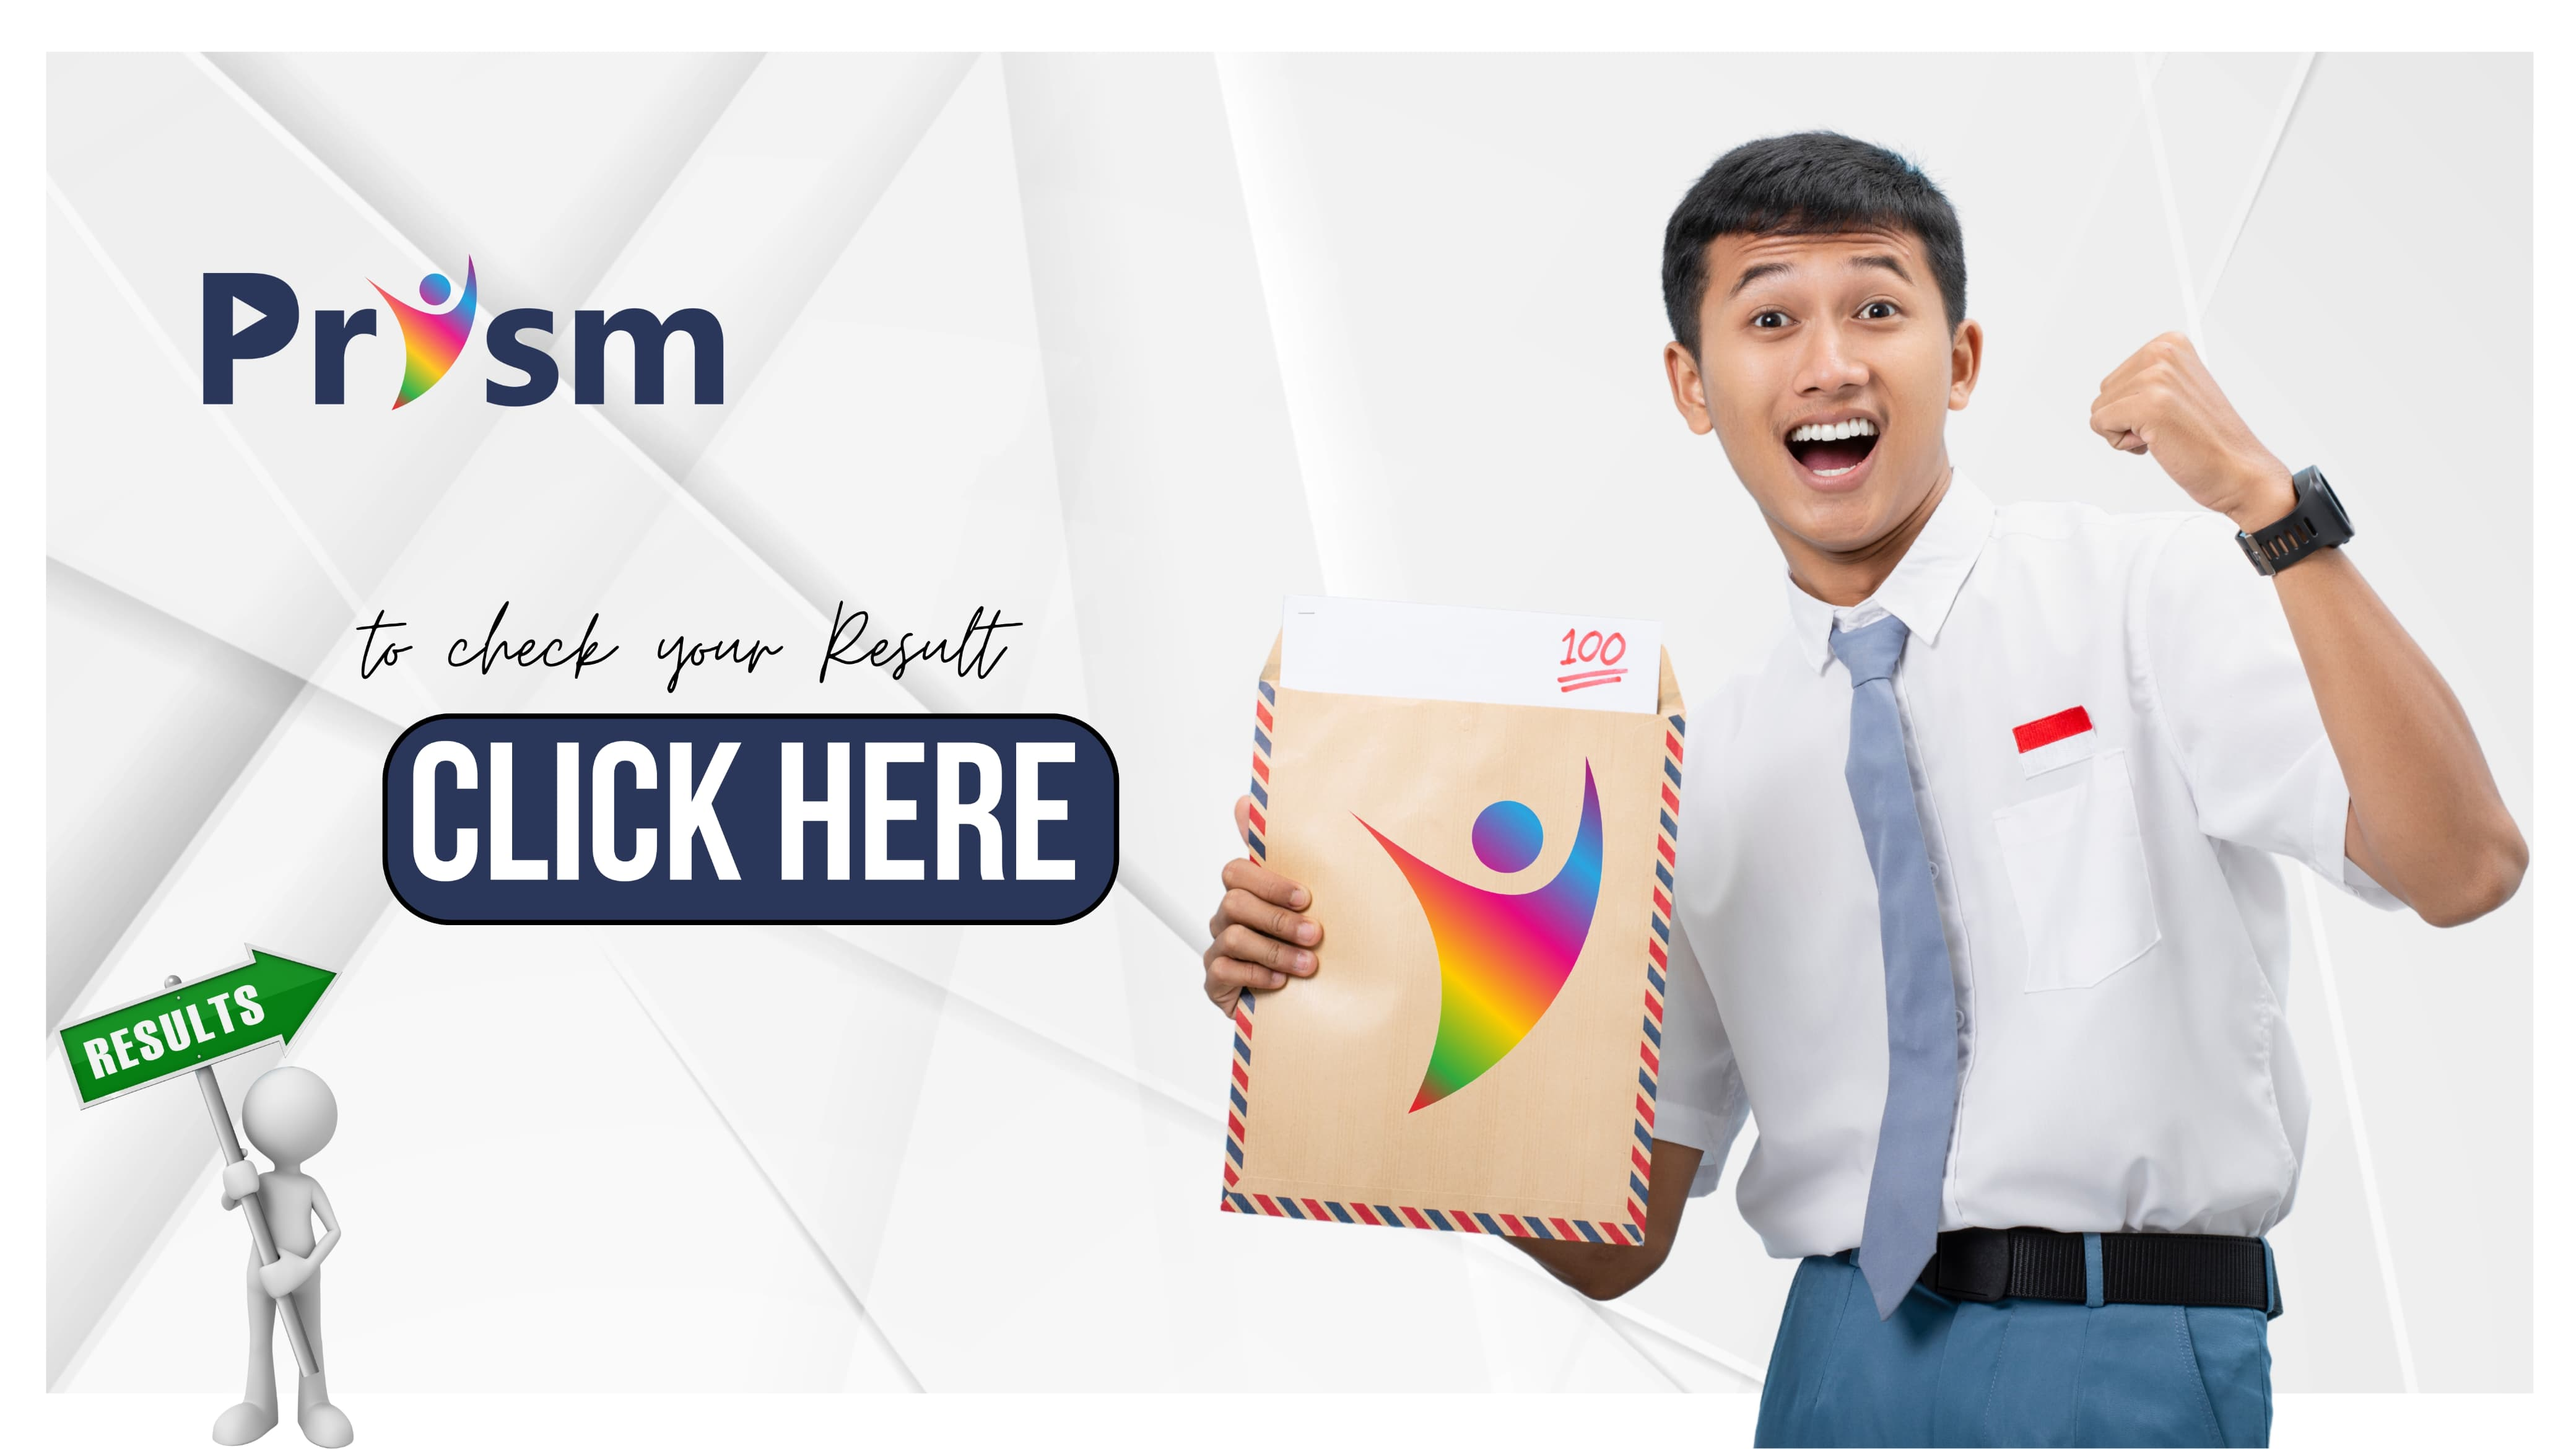
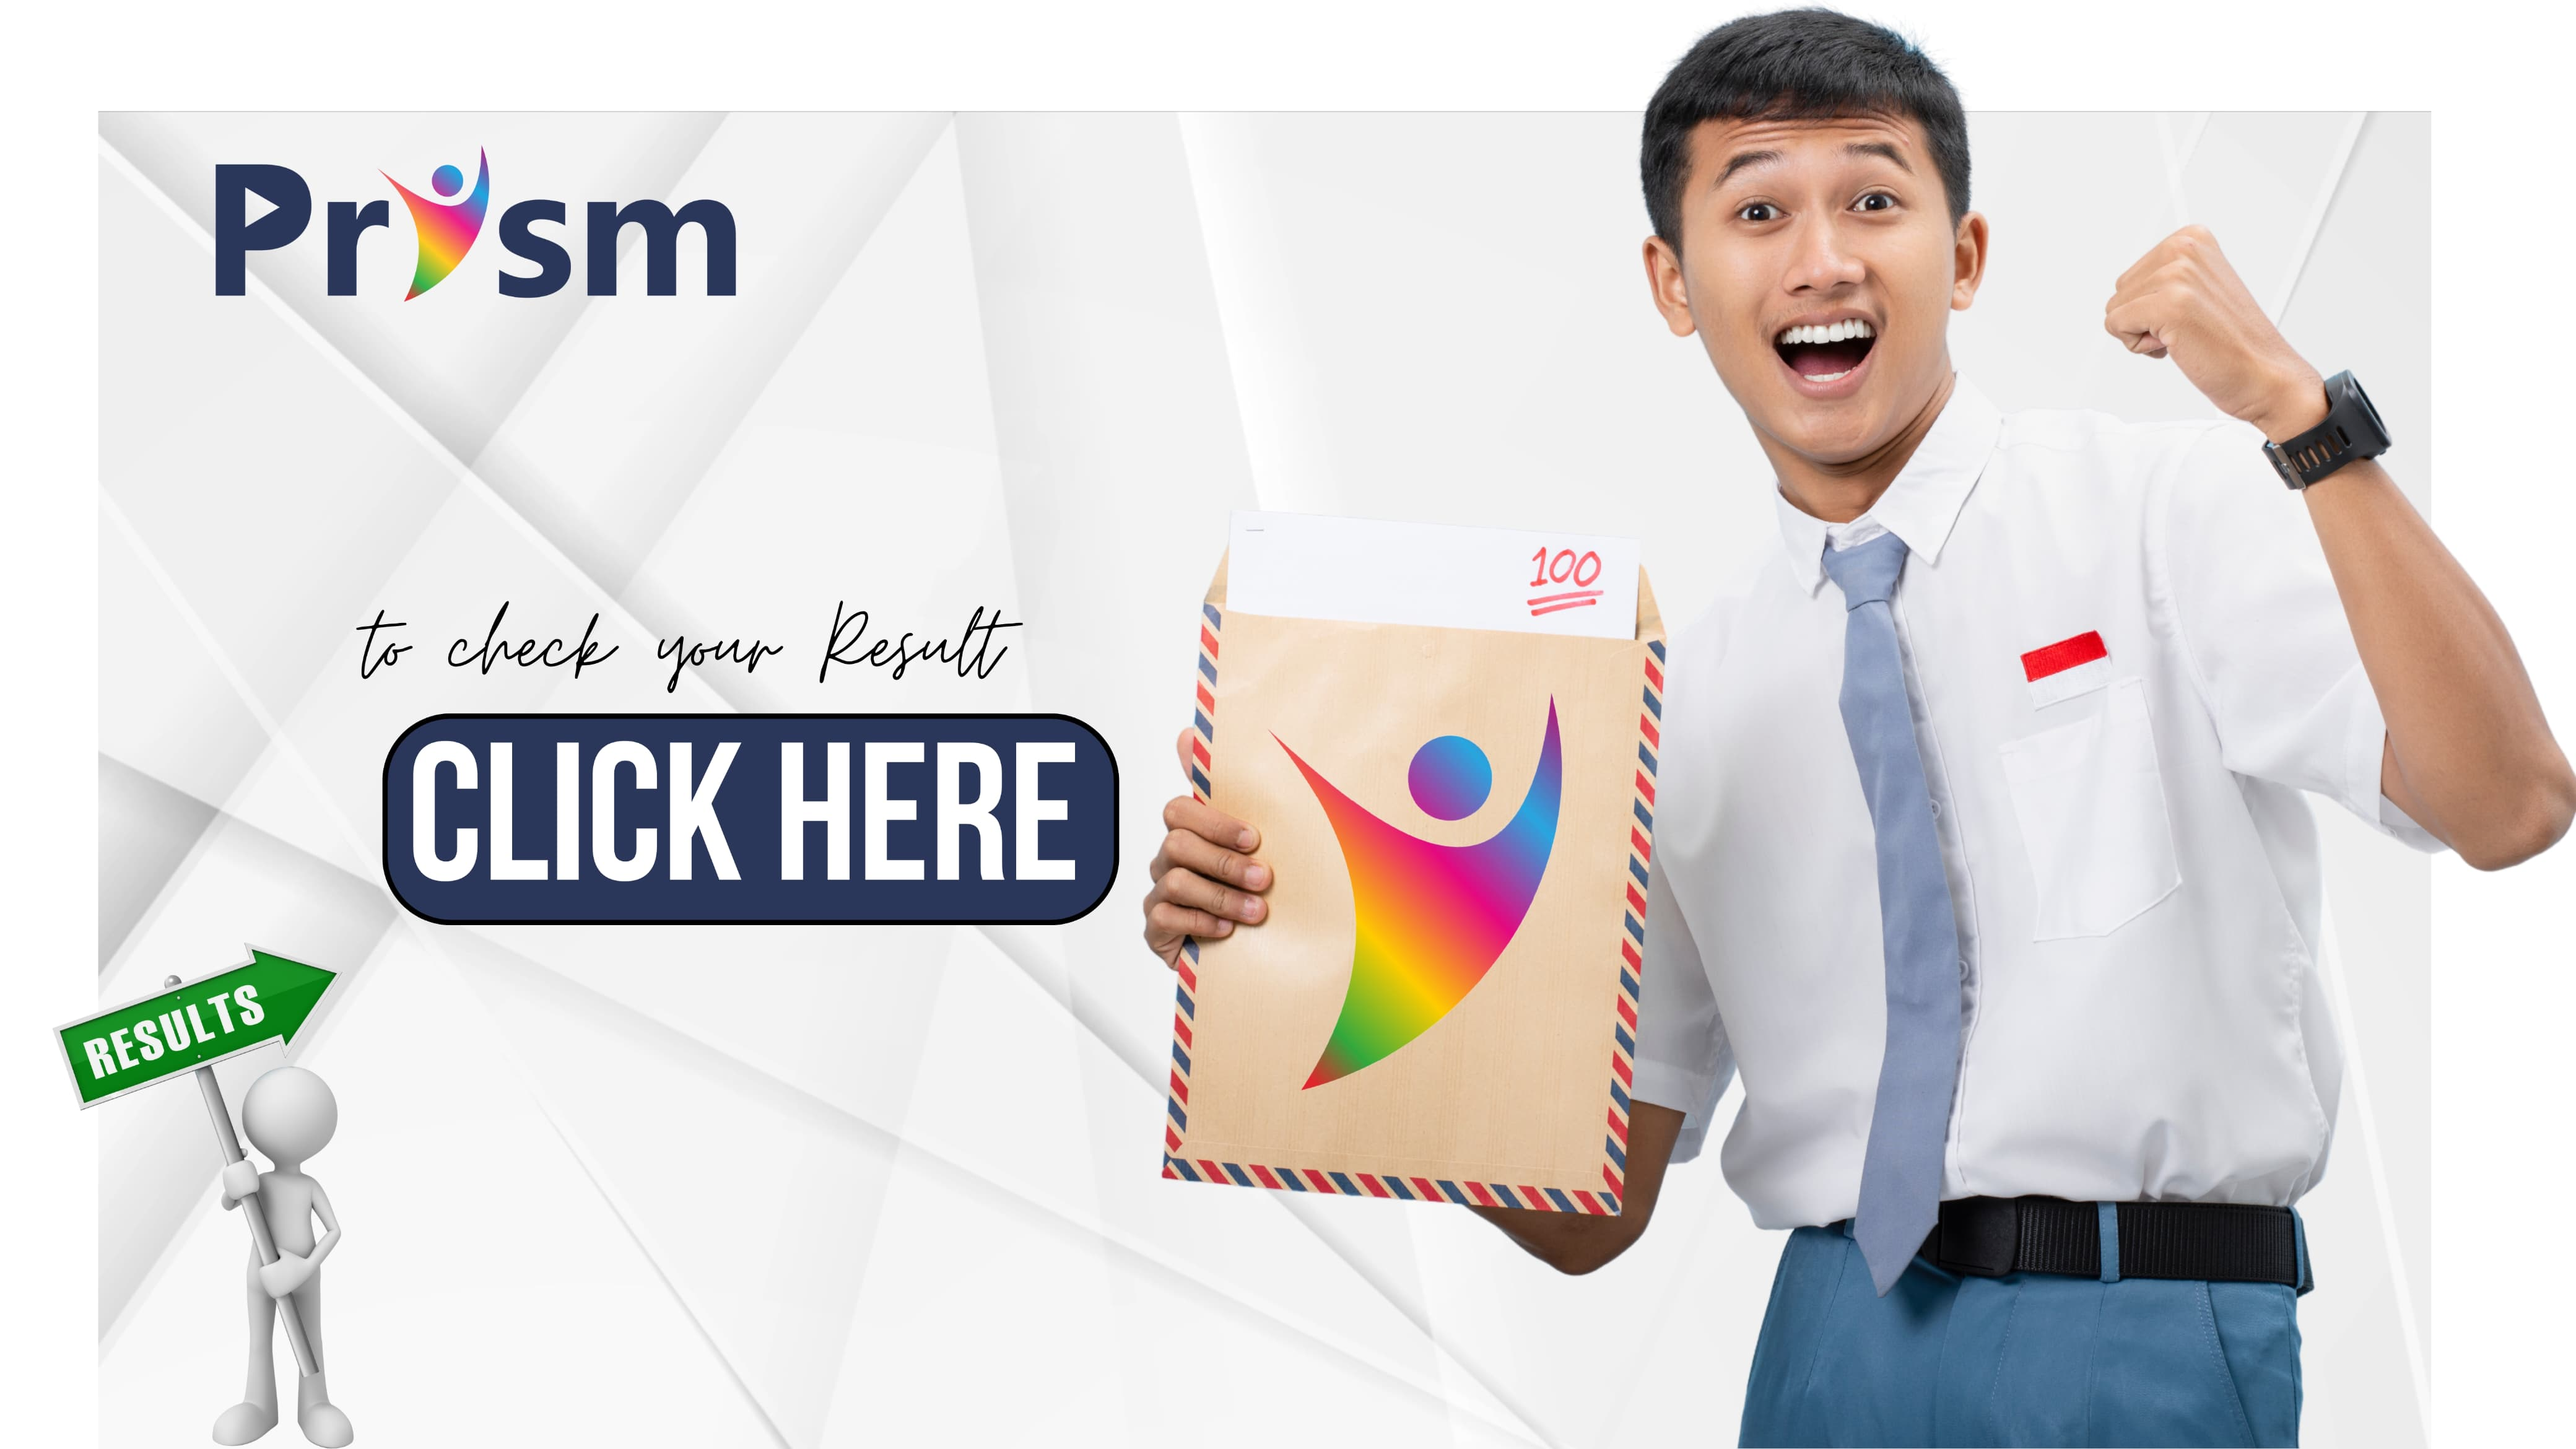
a

diff --git a/index.html b/index.html
@@ -46,8 +46,7 @@
 
     <section class="abra">
         <div class="container">
-            <img src="./Assets/News/f.jpg" alt="">
-            <!-- <img src="./Assets/News/e.png" alt=""> -->
+            <img src="./Assets/News/c.jpg" alt="">
         </div>
     </section>
 
@@ -56,9 +55,6 @@
 
         </div>
     </section>
-
-
-    
 
     <section class="reviews" id="reviews">
         <h1 class="heading">See What Our Students & Parents Say About Prism</h1>

diff --git a/style.css b/style.css
@@ -241,7 +241,7 @@ section.news .container {
     margin: auto;
 
     background-image:
-        url("./Assets/News/g.jpg");
+        url("./Assets/News/a.jpg");
     background-size: contain;
     background-position: center;
     background-repeat: no-repeat;
